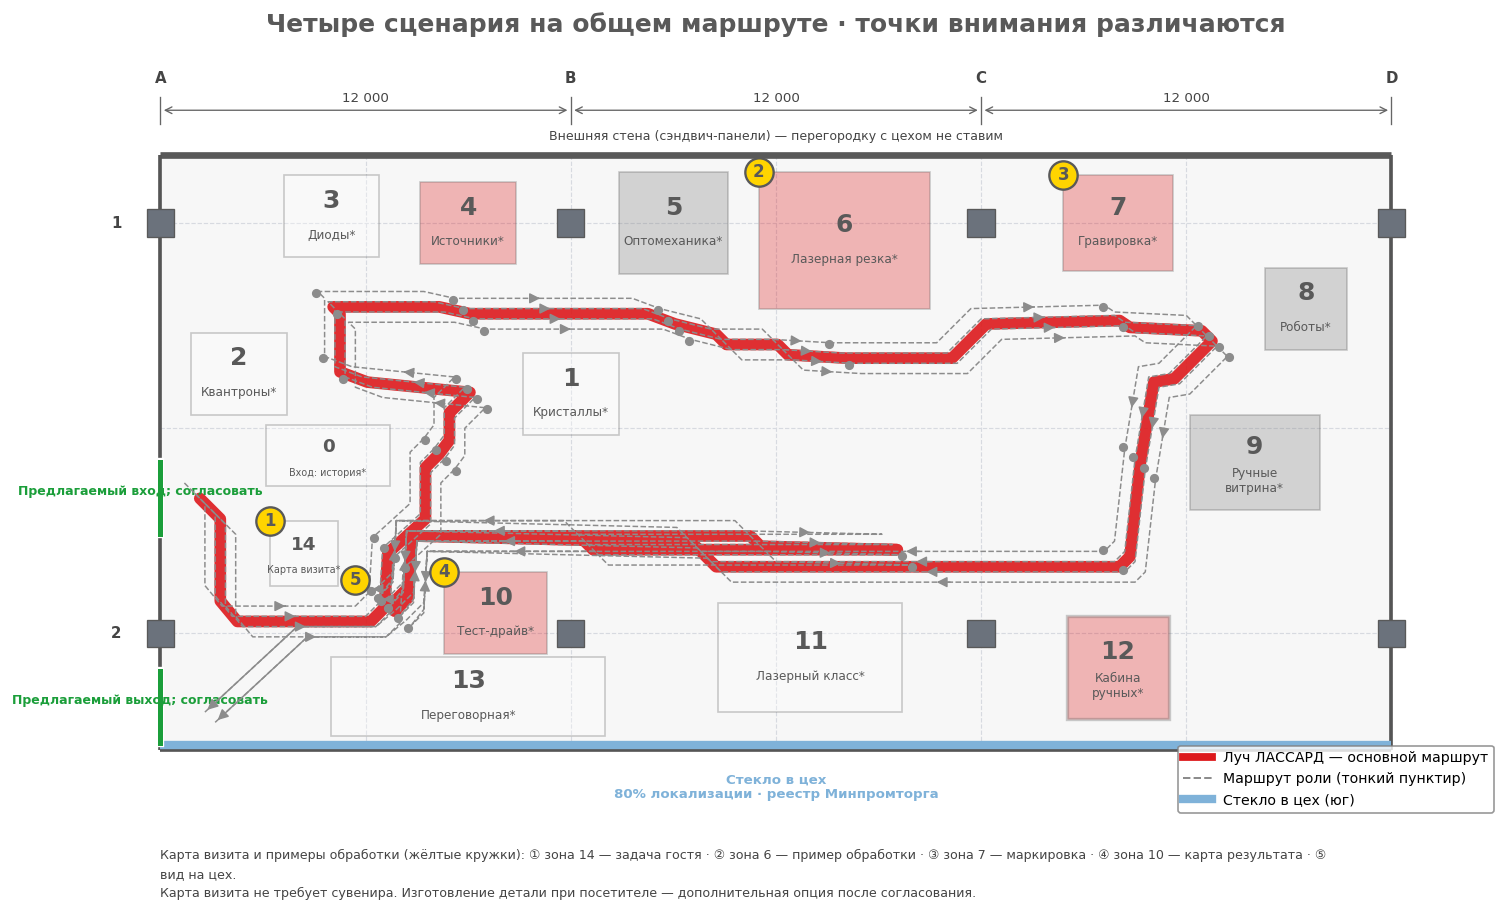
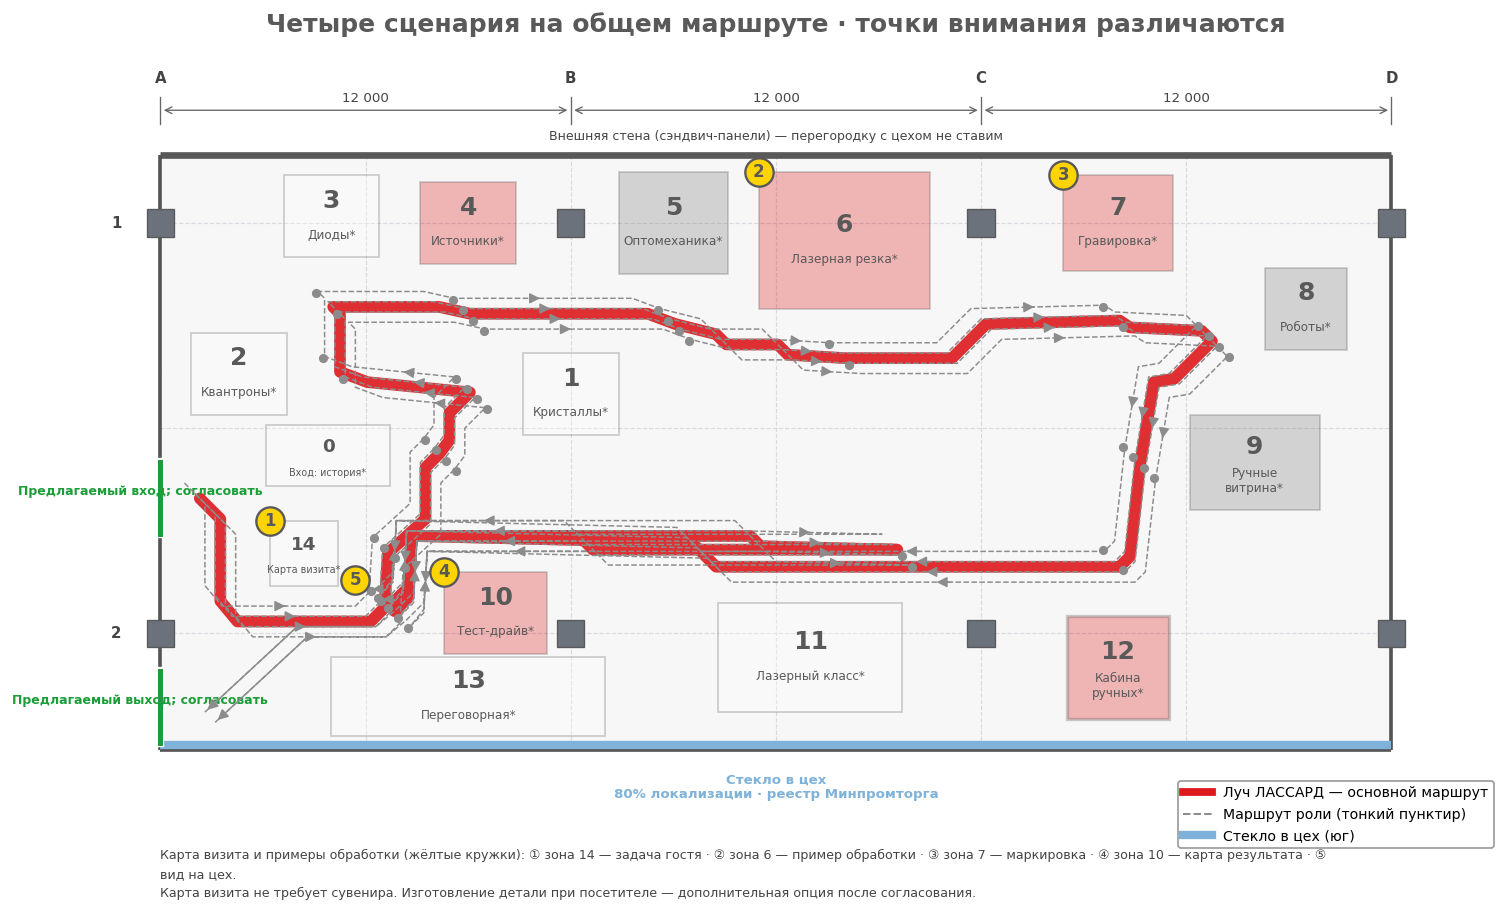
fix: легенда плана под линией стекла, deck_assets под светлые планы

Changed region(s): [[0.7771, 0.7922, 0.9947, 0.914]]

diff --git a/scripts/deck_assets.py b/scripts/deck_assets.py
@@ -17,14 +17,14 @@ PALE = '#F5F5F5'
 WHITE = '#FFFFFF'
 
 # Pixel boxes in plan/plan-*.png (1512 px wide, generated by plan/make_plan.py).
-ROOM_BOX = (0, 60, 1512, 752)          # axes, room and the south glass line
+ROOM_BOX = (0, 60, 1512, 845)          # axes, room, south glass line and the plan legend
+OWN_GLASS_NOTE = (480, 700, 1090, 770)   # plan's own glass caption, crop coordinates: replaced by GLASS_LABEL
 ENTRY_LABELS = ((0, 418, 275, 446), (0, 626, 275, 654))   # «Предлагаемый вход/выход; согласовать», crop coordinates
 ENTRY_BARS = range(156, 165)           # green door bars share the label colour; keep them
 LABEL_GREEN = (27, 158, 58)
 ROUTE_GREEN = (44, 160, 44)            # «Учебная группа» route crosses the labels
-PLAN_BG = (251, 251, 252)
+PLAN_BG = (247, 247, 247)             # BG in plan/make_plan.py
 NORTH_NOTE = (500, 62, 1050, 88)       # note on the north wall, crop coordinates
-LEGEND_SAMPLES = {'Клиент': (75, 925), 'Партнёр': (75, 946), 'Учебная группа': (712, 925), 'Власть': (712, 946)}
 GLASS_LABEL = '▲  СТЕКЛО В ЦЕХ — производство видно с маршрута'
 
 
@@ -56,18 +56,6 @@ def asset_or_placeholder(assets, name, label, size, font_dir):
     return stand_in
 
 
-def _legend(source, font_dir):
-    strip = Image.new('RGB', (ROOM_BOX[2], 96), WHITE)
-    draw = ImageDraw.Draw(strip)
-    label_font = font(font_dir, 30, True)
-    for i, (name, xy) in enumerate(LEGEND_SAMPLES.items()):
-        colour = source.getpixel(xy)
-        x, y = 170 + (i % 2) * 640, 12 + (i // 2) * 42
-        draw.rectangle((x, y + 12, x + 70, y + 20), fill=colour)
-        draw.text((x + 90, y), name, fill=INK, font=label_font)
-    return strip
-
-
 def _blend_error(pixel, ink):
     """Distance from pixel to the nearest anti-aliased mix of ink over the plan background."""
     d = [b - i for b, i in zip(PLAN_BG, ink)]
@@ -94,13 +82,14 @@ def _erase_entry_labels(room):
                     pixels[x, y] = PLAN_BG
 
 
-def plan_slide(src, dst, font_dir, legend=False):
-    """Crop a plan to the room, relabel entrances, add the glass label and optional route legend."""
+def plan_slide(src, dst, font_dir, legend=False):  # legend: kept for callers; the plan carries its own legend now
+    """Crop a plan to the room, relabel entrances and add the glass label."""
     source = Image.open(src).convert('RGB')
     room = source.crop(ROOM_BOX)
     _erase_entry_labels(room)
     draw = ImageDraw.Draw(room)
     draw.rectangle(NORTH_NOTE, fill=WHITE)
+    draw.rectangle(OWN_GLASS_NOTE, fill=WHITE)
     label_font = font(font_dir, 26, True)
     draw.text((146, 437), 'Вход', fill=INK, font=label_font, anchor='rm')
     draw.text((146, 640), 'Выход', fill=INK, font=label_font, anchor='rm')
@@ -108,8 +97,6 @@ def plan_slide(src, dst, font_dir, legend=False):
     glass = Image.new('RGB', (ROOM_BOX[2], 64), WHITE)
     ImageDraw.Draw(glass).text((775, 30), GLASS_LABEL, fill=RED, font=font(font_dir, 32, True), anchor='mm')
     parts.append(glass)
-    if legend:
-        parts.append(_legend(source, font_dir))
     out = Image.new('RGB', (ROOM_BOX[2], sum(p.height for p in parts)), WHITE)
     y = 0
     for part in parts:

diff --git a/plan/make_plan.py b/plan/make_plan.py
@@ -159,12 +159,14 @@ def draw_beam(ax, pts):
             solid_capstyle='round', alpha=0.9, zorder=6)
 
 
-def draw_legend(ax, role=False):
+def draw_legend(ax, plan, role=False):
     items = [ax.plot([], [], color=RED, lw=BEAM_LW / 1.5, label='Луч ЛАССАРД — основной маршрут')[0]]
     if role:
         items.append(ax.plot([], [], color=ROLE_GRAY, lw=1.2, ls='--', label='Маршрут роли (тонкий пунктир)')[0])
     items.append(ax.plot([], [], color=GLASS, lw=5, label='Стекло в цех (юг)')[0])
-    ax.legend(handles=items, loc='lower right', bbox_to_anchor=(1.0, 0.1), fontsize=8.5, frameon=True, facecolor='white', edgecolor=GRAY)
+    room = plan.room   # под линией стекла, правее подписи «Стекло в цех»
+    ax.legend(handles=items, loc='upper right', bbox_to_anchor=(room['w'] + 3.2, room['d'] + 0.7), bbox_transform=ax.transData,
+              fontsize=8.5, frameon=True, facecolor='white', edgecolor=GRAY)
 
 
 def footer(ax, plan, lines):
@@ -230,7 +232,7 @@ def plan_zones(plan, report):
     f = plan.finale()
     ax.plot(*f, marker='*', ms=16, color=GLASS, mec=DARK, zorder=9)
     ax.text(f[0], f[1] + 0.9, 'Финал:\nвид на цех', ha='center', va='top', fontsize=7, color=GLASS, fontweight='bold', zorder=9)
-    draw_legend(ax)
+    draw_legend(ax, plan)
     draw_passport(ax, plan)
     widths = [s['min_width'] for r in report['routes'].values() for s in r['segments'] if not str(s['from']).startswith('проём') and not str(s['to']).startswith('проём')]
     footer(ax, plan, passport_legend(plan) + [
@@ -298,7 +300,7 @@ def plan_flows(plan, report):
                 label='%s: %s' % (s['name'], ' → '.join(str(i) for i in s['zones'] if plan.zones[i]['model'] != 'meeting') + ' → ' + ends))
     draw_passport(ax, plan)
     footer(ax, plan, passport_legend(plan))
-    draw_legend(ax, role=True)
+    draw_legend(ax, plan, role=True)
     fig.savefig(os.path.join(OUT, 'plan-flows.png'), bbox_inches='tight')
     plt.close(fig)
 
